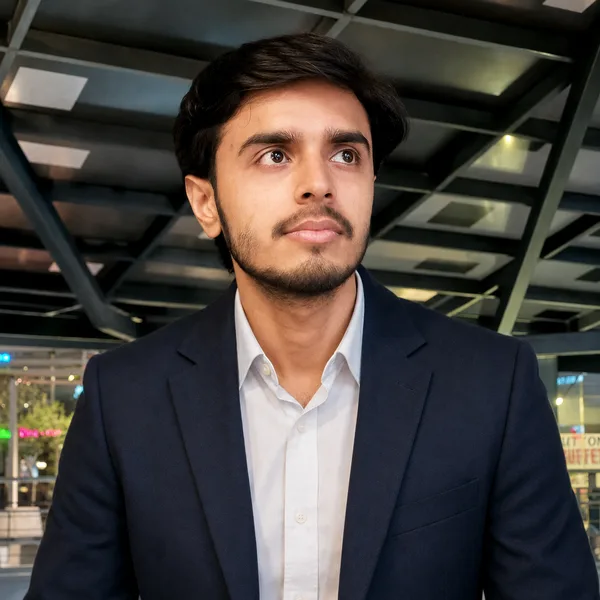
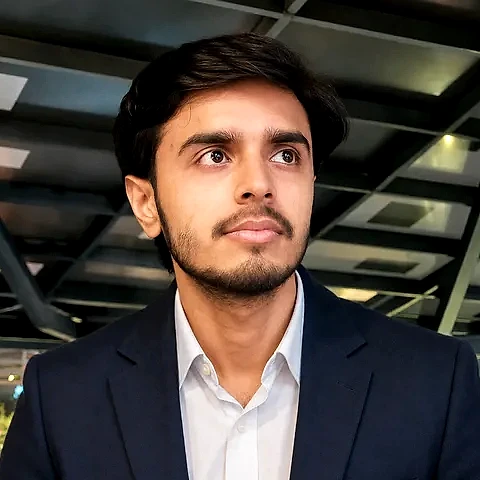
Refactor About section layout and update profile phone number for privacy

diff --git a/src/index.css b/src/index.css
@@ -643,28 +643,30 @@ h1, h2, h3 {
     background: radial-gradient(circle, rgba(244, 114, 182, 0.16), transparent 70%);
 }
 
-.about-bio {
+.about-grid {
     position: relative;
     z-index: 2;
+    display: grid;
+    grid-template-columns: 1.6fr 1fr;
+    gap: var(--space-8);
+    align-items: start;
+    margin-top: var(--space-6);
+}
+
+.about-main {
+    display: flex;
+    flex-direction: column;
+    align-items: flex-start;
+    gap: var(--space-6);
+}
+
+.about-bio {
     font-family: var(--font-display);
-    font-size: clamp(22px, 2.8vw, 30px);
+    font-size: clamp(20px, 2.4vw, 27px);
     font-weight: 500;
     line-height: 1.55;
     color: var(--text-primary);
-    max-width: 900px;
-    margin: 28px 0 44px;
-}
-
-.about-footer {
-    position: relative;
-    z-index: 2;
-    display: flex;
-    justify-content: space-between;
-    align-items: center;
-    flex-wrap: wrap;
-    gap: 28px;
-    padding-top: 32px;
-    border-top: 1px solid var(--border);
+    margin: 0;
 }
 
 .btn-cv {
@@ -689,20 +691,36 @@ h1, h2, h3 {
     transform: translateY(-1px);
 }
 
-.info-row-strip {
+.about-info-card {
     display: flex;
-    flex-wrap: wrap;
-    gap: 24px 32px;
-}
-
-.info-item {
-    display: flex;
-    align-items: center;
-    gap: 10px;
+    flex-direction: column;
     background: var(--bg-elevated);
     border: 1px solid var(--border);
-    border-radius: 999px;
-    padding: 10px 18px;
+    border-radius: var(--radius-md);
+    padding: var(--space-5) var(--space-6);
+    backdrop-filter: blur(10px);
+    transition: 0.2s var(--ease);
+}
+
+.about-info-card:hover {
+    border-color: var(--border-hover);
+}
+
+.about-info-row {
+    display: flex;
+    align-items: center;
+    gap: 14px;
+    padding: var(--space-3) 0;
+}
+
+.about-info-row:not(:first-child) {
+    border-top: 1px solid var(--border);
+}
+
+.about-info-text {
+    display: flex;
+    flex-direction: column;
+    gap: 2px;
 }
 
 .info-icon {
@@ -713,8 +731,10 @@ h1, h2, h3 {
 
 .info-label {
     color: var(--text-tertiary);
-    font-size: 13px;
+    font-size: 12px;
     font-family: var(--font-mono);
+    text-transform: uppercase;
+    letter-spacing: 0.5px;
 }
 
 .info-value {
@@ -1322,9 +1342,8 @@ h1, h2, h3 {
         order: -1;
     }
 
-    .about-footer {
-        flex-direction: column;
-        align-items: flex-start;
+    .about-grid {
+        grid-template-columns: 1fr;
     }
 
     .stats-bar {

diff --git a/src/components/About.tsx b/src/components/About.tsx
@@ -25,39 +25,41 @@ export function About() {
         <h2>Who am I?</h2>
       </motion.div>
 
-      <motion.p
-        className="about-bio"
-        initial={{ opacity: 0, y: 16 }}
-        whileInView={{ opacity: 1, y: 0 }}
-        viewport={{ once: true, margin: '-15% 0px' }}
-        transition={{ duration: 0.5, delay: 0.08 }}
-      >
-        {PROFILE.bio}
-      </motion.p>
+      <div className="about-grid">
+        <motion.div
+          className="about-main"
+          initial={{ opacity: 0, y: 16 }}
+          whileInView={{ opacity: 1, y: 0 }}
+          viewport={{ once: true, margin: '-15% 0px' }}
+          transition={{ duration: 0.5, delay: 0.08 }}
+        >
+          <p className="about-bio">{PROFILE.bio}</p>
+          <a href="#" className="btn-cv">
+            Download CV
+            <ArrowDown size={16} />
+          </a>
+        </motion.div>
 
-      <motion.div
-        className="about-footer"
-        initial={{ opacity: 0, y: 16 }}
-        whileInView={{ opacity: 1, y: 0 }}
-        viewport={{ once: true, margin: '-15% 0px' }}
-        transition={{ duration: 0.5, delay: 0.14 }}
-      >
-        <a href="#" className="btn-cv">
-          Download CV
-          <ArrowDown size={16} />
-        </a>
-        <div className="info-row-strip">
+        <motion.div
+          className="about-info-card"
+          initial={{ opacity: 0, y: 16 }}
+          whileInView={{ opacity: 1, y: 0 }}
+          viewport={{ once: true, margin: '-15% 0px' }}
+          transition={{ duration: 0.5, delay: 0.14 }}
+        >
           {INFO_ROWS.map(({ icon: Icon, label, value, highlight }) => (
-            <div className="info-item" key={label}>
+            <div className="about-info-row" key={label}>
               <span className="info-icon">
                 <Icon size={17} strokeWidth={2} />
               </span>
-              <span className="info-label">{label}</span>
-              <span className={`info-value ${highlight ? 'available' : ''}`}>{value}</span>
+              <span className="about-info-text">
+                <span className="info-label">{label}</span>
+                <span className={`info-value ${highlight ? 'available' : ''}`}>{value}</span>
+              </span>
             </div>
           ))}
-        </div>
-      </motion.div>
+        </motion.div>
+      </div>
     </section>
   );
 }

diff --git a/src/data/content.ts b/src/data/content.ts
@@ -214,7 +214,7 @@ export const PROFILE = {
   firstName: 'Jawad',
   lastName: 'Sami Ul Haq',
   email: 'jawad786sami@gmail.com',
-  phone: '+92 347 8615710',
+  phone: '+92 347 86*****',
   location: 'Punjab, Pakistan',
   freelance: 'Available',
   website: 'https://jawadsamiulhaq.vercel.app/',
